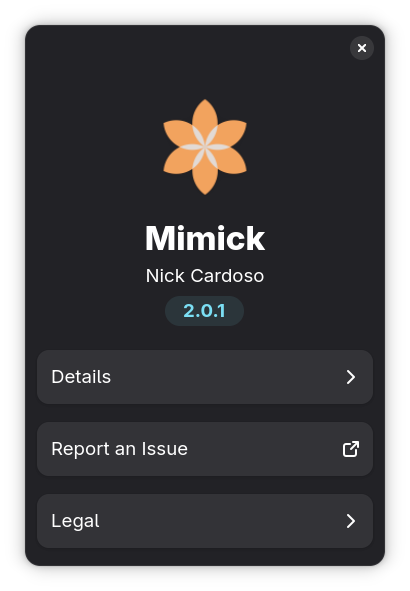
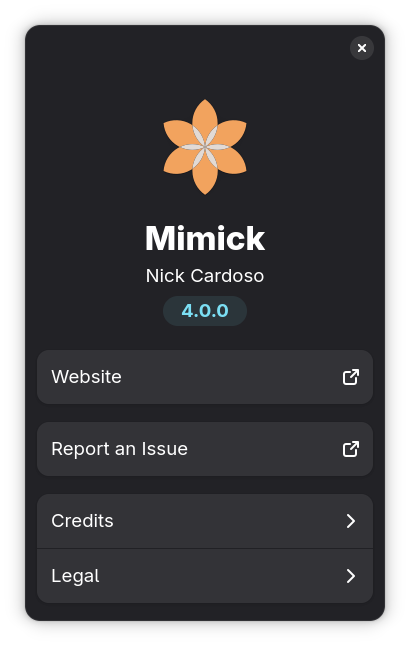
Bump version to 5.0.0 and update changelog with new features and improvements

diff --git a/src/settings_window.rs b/src/settings_window.rs
@@ -872,7 +872,7 @@ fn show_about_dialog(parent: &adw::ApplicationWindow) {
     let about = adw::AboutWindow::builder()
         .application_name("Mimick")
         .application_icon("io.github.nicx17.mimick")
-        .version("4.0.0")
+        .version(env!("CARGO_PKG_VERSION"))
         .developer_name("Nick Cardoso")
         .website("https://github.com/nicx17/mimick")
         .issue_url("https://github.com/nicx17/mimick/issues")

diff --git a/CHANGELOG.md b/CHANGELOG.md
@@ -7,17 +7,21 @@ and this project adheres to [Semantic Versioning](https://semver.org/spec/v2.0.0
 
 ## [Unreleased]
 
+## [5.0.0] - 2026-03-14
+
 ### Added
 - A built-in **Run on Startup** setting that requests desktop-portal background permission in Flatpak builds and writes a native autostart desktop entry outside Flatpak.
 - Friendly folder labels for portal-backed watch directories, so selected Flatpak folders show names like `Screenshots` instead of raw `/run/user/.../doc/...` paths.
 - Real **Save & Restart** behavior that relaunches Mimick after settings are saved.
 - Explicit **Close** and **Quit** actions in the settings window, plus a launcher **Quit Mimick** desktop action.
+- A published GitHub Pages landing page for the Flatpak repository with direct install instructions and repository links.
 
 ### Changed
 - Flatpak builds now use selected-folder access through the file chooser portal instead of `--filesystem=home`.
 - Folder monitoring inside Flatpak now uses a polling watcher so portal-backed directories continue to sync reliably.
 - Local Flatpak development builds now use the same selected-folder permission model as the deployed app.
 - App quit paths now shut down gracefully instead of using a hard process exit from the tray.
+- The Flatpak repository landing page has been redesigned with a simpler, more cohesive visual style and a one-click copy action for install commands.
 
 ## [4.0.0] - 2026-03-14
 
